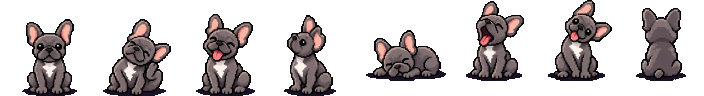
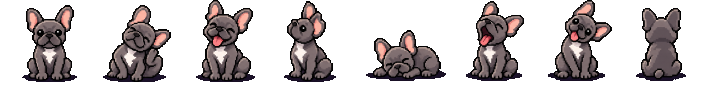
Flip: no-sensor note low with OK; match controls card only before the first match; dog frames aligned to one height
Claude-Session: https://claude.ai/code/session_01Y9XNosS9qXxorLv9Jh2D4n

Changed region(s): [[0.0312, 0.0625, 0.25, 1.0], [0.2812, 0.0, 0.375, 1.0], [0.4062, 0.0312, 0.5, 1.0]]

diff --git a/index.html b/index.html
@@ -541,7 +541,7 @@
   #szatnia .bars { display: grid; grid-template-columns: auto auto; gap: .25em .8em; align-items: center; font-size: clamp(8px, 1.15vw, 15px); }
   #szatnia .bars span { color: #b8b0e8; } #szatnia .bars i { display: flex; gap: 2px; } #szatnia .bars i u { width: 1.6em; height: .7em; background: #3a3270; text-decoration: none; }
   #szatnia .bars i u.on { background: #ffc21a; } #szatnia .bars i u[style] { background: linear-gradient(90deg, #ffc21a var(--p), #3a3270 0); } #szatnia .bars i.max u.on { background: #ff5a1a; box-shadow: 0 0 6px #ff8a1f; }
-  #dog { position: absolute; left: 0.8%; top: 60.5%; width: 8.6%; aspect-ratio: 88 / 96; background: url(dog.png) 0 0 / 800% 100% no-repeat; image-rendering: pixelated; cursor: pointer; }
+  #dog { position: absolute; left: 0.8%; top: 60.5%; width: 8.6%; aspect-ratio: 88 / 96; background: url(dog.png?v=2) 0 0 / 800% 100% no-repeat; image-rendering: pixelated; cursor: pointer; }
   #dog.scr { animation: scr .16s steps(2) infinite; } @keyframes scr { 50% { transform: translate(1px, -2px); } }
   #dog.hop { animation: dhop .35s steps(3); } @keyframes dhop { 50% { transform: translateY(-14%); } }
   #trofea { position: fixed; inset: 0; z-index: 21; background: #120a24; overflow: hidden; } #trofea[hidden] { display: none; }
@@ -697,7 +697,7 @@
   body.playing #mute { display: block; } body.playing.touch #mute { top: max(10px, env(safe-area-inset-top)); right: calc(max(10px, env(safe-area-inset-right)) + 156px); bottom: auto; }
   @media (max-width: 700px) { #score .tn { font-size: 16px; } #score .num { font-size: 24px; min-width: 50px; } #score .clockp { font-size: 18px; } #score .crest { width: 26px; height: 30px; } #score .plate, #score .clockp { height: 38px; } }
 </style>
-<script src="./lang.js?v=11"></script>
+<script src="./lang.js?v=12"></script>
 <script type="importmap">{ "imports": { "three": "https://cdn.jsdelivr.net/npm/three@0.187.0/build/three.module.js" } }</script>
 <script>
   // music volume for every track (match, locker room, penalties, keepy-uppy): 100 / 60 / 30 / off, remembered
@@ -976,7 +976,10 @@
       raf = requestAnimationFrame(anim); };
     return { start }; })();
   const go = () => COIN.start((side, first) => { window.GAME.setSide(side); window.FIRST_KICK = first; go2(); });
-  const go2 = () => { $('menu').hidden = true; $('end').hidden = true; document.body.classList.add('playing'); meP = themP = null; meMood = themMood = '-'; window.GAME.start(); window.GAME.freeze(true); $('tip').hidden = false; tipT = performance.now(); };
+  const go2 = () => { $('menu').hidden = true; $('end').hidden = true; document.body.classList.add('playing'); meP = themP = null; meMood = themMood = '-'; window.GAME.start();
+    // the big how-to-play card only before the very first match, not before every tournament game
+    let seen = false; try { seen = localStorage.getItem('tip_seen') === '1'; localStorage.setItem('tip_seen', '1'); } catch (e) {}
+    if (seen) return; window.GAME.freeze(true); $('tip').hidden = false; tipT = performance.now(); };
   let tipT = 0; const unTip = () => { if ($('tip').hidden || performance.now() - tipT < 400) return; $('tip').hidden = true; window.GAME.freeze(false); };
   $('tip').addEventListener('pointerdown', (e) => { e.preventDefault(); unTip(); });
   $('play').addEventListener('click', go); $('again').addEventListener('click', go);
@@ -1617,7 +1620,7 @@
 <script src="./pen.js?v=6"></script>
 <script src="./lace.js"></script>
 <script src="./caps.js"></script>
-<script src="./flip.js?v=3"></script>
+<script src="./flip.js?v=4"></script>
 <script src="./paluchy.js?v=7"></script>
 <script src="./bieg.js?v=1795689651"></script>
 <script type="module" src="./game.js?v=6"></script>

diff --git a/flip.js b/flip.js
@@ -63,9 +63,14 @@
   // swipe fallback, always on
   let sw = null;
   const P = (e) => { const r = cv.getBoundingClientRect(); return [e.clientX - r.left, e.clientY - r.top]; };
+  // "no motion sensor" note: low on the screen, with OK that hides it for good
+  let nsOk = false; try { nsOk = localStorage.getItem('flip_nosens_ok') === '1'; } catch (e) {}
+  const nsShow = () => S.nosens && !nsOk && S.phase === 'hold';
+  const nsBtn = () => { const w = 64, h = 34; return { x: W / 2 + Math.min(W * 0.42, 330) - w, y: H - 92, w, h }; };
   const startBtn = () => { const w = Math.min(280, W * 0.4), h = 60; return { x: W / 2 - w / 2, y: H * 0.66, w, h }; };
   cv.addEventListener('pointerdown', (e) => { e.preventDefault(); const [x, y] = P(e);
     if (S.phase === 'intro') return;
+    if (nsShow()) { const b = nsBtn(); if (x > b.x - 8 && x < b.x + b.w + 8 && y > b.y - 8 && y < b.y + b.h + 8) { nsOk = true; try { localStorage.setItem('flip_nosens_ok', '1'); } catch (er) {} return; } }
     sw = { x, y, t: performance.now() }; });
   cv.addEventListener('click', async (e) => { if (S.phase !== 'intro') return; const [x, y] = P(e), b = startBtn();
     if (x > b.x && x < b.x + b.w && y > b.y && y < b.y + b.h) { S.motion = await askMotion(); hang(); tone(520, 780, 0.1); } });
@@ -142,7 +147,10 @@
         g.restore(); if (sz > 0) txt(st.mega ? 'SUPER WOW!' : 'WOW!', cx, H * 0.24 + Math.min(W, H) * (st.mega ? 0.36 : 0.3) * 0.62, Math.min(st.mega ? 46 : 40, W / 12), st.mega ? ['#ff6ad5', '#3ce6c8', '#ffe14a'][Math.floor(p * 12) % 3] : '#ffe14a'); }
       if (S.msgT > 0) { const my = S.star && S.star.t > 0 ? H * 0.62 : H * 0.42; txt(S.msg, W / 2, my, Math.min(34, W / 16), S.msgC); if (S.gain) txt('+' + S.gain, W / 2, my + Math.min(34, W / 16) * 1.15, Math.min(30, W / 18), '#6ee05a'); }
       else if (S.phase === 'hold' && Math.floor(S.t * 2.5) % 2) txt(S.motion ? 'MACHNIJ TELEFONEM W GÓRĘ' : 'PRZESUŃ PALCEM W GÓRĘ', W / 2, H - 30, Math.min(20, W / 30), '#fff');
-      if (S.nosens && S.phase === 'hold') txt('Ta przeglądarka nie daje czujnika ruchu - otwórz grę w Chrome', W / 2, 92, Math.min(13, W / 55), '#ffb0a0');
+      if (nsShow()) { const bw = Math.min(W * 0.84, 660), b = nsBtn(); pbox(W / 2 - bw / 2, H - 104, bw, 58, '#2a1238');
+        g.font = `${Math.round(Math.min(11, W / 62))}px "Press Start 2P", monospace`; g.textAlign = 'left'; g.textBaseline = 'middle'; g.fillStyle = '#ffb0a0';
+        g.fillText('Ta przeglądarka nie daje czujnika ruchu.', W / 2 - bw / 2 + 16, H - 84); g.fillText('Przesuwaj palcem albo otwórz grę w Chrome.', W / 2 - bw / 2 + 16, H - 64);
+        pbox(b.x, b.y, b.w, b.h, '#6ee05a'); g.textAlign = 'center'; g.fillStyle = '#1a1030'; g.font = '12px "Press Start 2P", monospace'; g.fillText('OK', b.x + b.w / 2, b.y + b.h / 2 + 1); }
       if (S.motion) { const n = 10, lit = Math.round(S.lvl * n); g.font = '8px "Press Start 2P", monospace'; g.textAlign = 'left'; g.fillStyle = '#fff'; g.fillText('RUCH', 14, 84);
         for (let i = 0; i < n; i++) { g.fillStyle = '#000'; g.fillRect(56 + i * 12, 78, 11, 12); g.fillStyle = i < lit ? (i > 6 ? '#ff4a3a' : i > 3 ? '#ffe14a' : '#3fe060') : '#333'; g.fillRect(57 + i * 12, 79, 9, 10); } }
     } else {

diff --git a/lang.js b/lang.js
@@ -73,7 +73,7 @@
     'FIOLETOWI POZA TOREM! +1': 'PURPLES OFF THE TRACK! +1', 'POZA TOREM! +1 STRZAŁ': 'OFF THE TRACK! +1 SHOT', 'META': 'FINISH', 'Kto zrobi mniej strzałów do mety, wygrywa': 'Fewest shots to the finish wins',
     'przeciągnij do tyłu i puść': 'drag back and let go', 'FIOLETOWI CELUJĄ…': 'THE PURPLES AIM…', 'DOTKNIJ, ŻEBY WRÓCIĆ DO WYBORU': 'TAP TO GO BACK',
     // bottle flip
-    'PODWÓJNY FLIP!': 'DOUBLE FLIP!', 'POTRÓJNY FLIP!': 'TRIPLE FLIP!', 'POCZWÓRNY FLIP!': 'QUADRUPLE FLIP!', 'FLIP!': 'FLIP!', 'BEZ OBROTU SIĘ NIE LICZY': 'NO SPIN, NO POINT', 'DO GÓRY DNEM!': 'UPSIDE DOWN!', 'ZA MOCNO': 'TOO HARD', 'ZA SŁABO': 'TOO SOFT',
+    'PODWÓJNY FLIP!': 'DOUBLE FLIP!', 'Ta przeglądarka nie daje czujnika ruchu.': 'This browser gives no motion sensor.', 'Przesuwaj palcem albo otwórz grę w Chrome.': 'Swipe with a finger or open the game in Chrome.', 'POTRÓJNY FLIP!': 'TRIPLE FLIP!', 'POCZWÓRNY FLIP!': 'QUADRUPLE FLIP!', 'FLIP!': 'FLIP!', 'BEZ OBROTU SIĘ NIE LICZY': 'NO SPIN, NO POINT', 'DO GÓRY DNEM!': 'UPSIDE DOWN!', 'ZA MOCNO': 'TOO HARD', 'ZA SŁABO': 'TOO SOFT',
     'MACHNIJ TELEFONEM W GÓRĘ': 'FLICK THE PHONE UP', 'PRZESUŃ PALCEM W GÓRĘ': 'SWIPE UP', 'Ta przeglądarka nie daje czujnika ruchu - otwórz grę w Chrome': 'This browser has no motion sensor - open the game in Chrome',
     'RUCH': 'MOTION', 'Weź telefon jak butelkę i machnij nim lekko w górę,': 'Hold the phone like a bottle and flick it gently up,', 'jakbyś podrzucał butelkę. Ma zrobić fikołka': 'as if tossing a bottle. It must flip',
     'i stanąć na denku.': 'and land on its bottom.', 'ZACZYNAMY': "LET'S GO", 'Trzymaj telefon mocno!  Bez czujników: przesuń palcem w górę.': 'Hold the phone tight!  No sensors: swipe up.',
